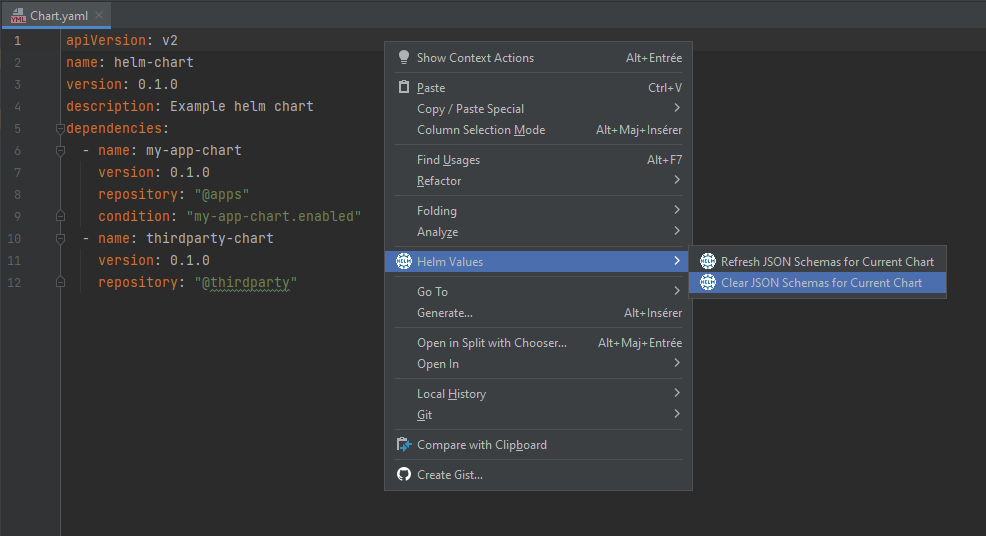
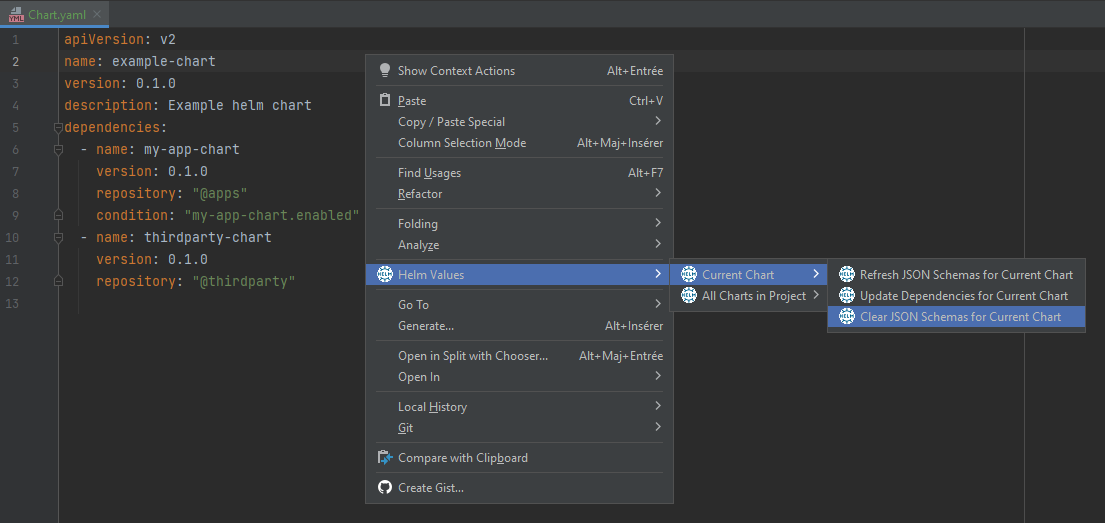
0.8.0

diff --git a/helm-values-shared/src/main/kotlin/io/github/fstaudt/helm/JsonSchemaConstants.kt b/helm-values-shared/src/main/kotlin/io/github/fstaudt/helm/JsonSchemaConstants.kt
@@ -2,7 +2,7 @@ package io.github.fstaudt.helm
 
 const val SCHEMA_VERSION = "https://json-schema.org/draft/2020-12/schema"
 
-const val GENERATOR_LABEL = "helm-values 0.7.1"
+const val GENERATOR_LABEL = "helm-values 0.8.0"
 
 const val NEW_LINE = "\n\\n"
 

diff --git a/helm-values-intellij-plugin/README.md b/helm-values-intellij-plugin/README.md
@@ -5,19 +5,14 @@
 [![Downloads](https://img.shields.io/jetbrains/plugin/d/19970.svg)](https://plugins.jetbrains.com/plugin/19970-helm-values-assistant)
 
 <!-- Plugin description -->
-**Generate JSON schemas to help writing values for [Helm charts](https://helm.sh/).**
+**Ease configuration of values for [Helm charts](https://helm.sh/) in your IDE**
 
-The plugin provides several actions to generate [JSON schemas](https://json-schema.org/) for a Helm chart.\
-These schemas can then be used to document, validate and auto-complete Helm values in your IDE.
+The plugin provides several actions to generate [JSON schemas](https://json-schema.org/) for values of Helm charts.\
+These schemas can then be used in your IDE to document, validate and auto-complete Helm values.
 
-Since Helm v3, Helm charts can package a [JSON schema](https://helm.sh/docs/topics/charts/#schema-files)
-named `values.schema.json` to validate values when Helm chart is installed.\
-The plugin can extract packaged JSON schemas from chart dependencies.
-
-It can also be configured to download JSON schemas of dependencies from external JSON schema repositories.
-
-Plugin provides actions to aggregate extracted and downloaded JSON schemas into a single JSON schema
-that can be used to provide validation, auto-completion and documentation on values.yaml in your IDE.
+Plugin also allows to update Helm dependencies for Helm charts directly from your IDE.\
+_This requires [installation of Helm](https://helm.sh/docs/intro/install/) on your local workstation
+and [configuration of Helm repositories](https://helm.sh/docs/helm/helm_repo/)._
 
 More information: [Helm values documentation](https://github.com/fstaudt/helm-values#readme)
 <!-- Plugin description end -->
@@ -28,7 +23,7 @@ More information: [Helm values documentation](https://github.com/fstaudt/helm-va
 
 Action *Refresh JSON schema for current chart* is available from `Chart.yaml` or `values.yaml`.
 
-![settings](screenshots/action-refresh.png "Refresh JON schemas for current chart")
+![action_refresh_current](screenshots/action-refresh.png "Refresh JON schemas for current chart")
 
 Action will trigger the following processing:
 
@@ -40,18 +35,19 @@ Action will trigger the following processing:
   *A fallback schema is generated if package of chart dependency is missing or invalid.*\
   *The description of the fallback schema provides more information on the extract issue.*
 - extract file `values.schema.json` from chart dependencies (if available)\
-  *Action only attempts to extract file `values.schema.json` from archive of each dependency*
-  *if a repository mapping is **not** defined for the Helm repository of the dependency.*\
-  *Check dedicated section to [configure JSON schema repositories](#configure-json-schema-repositories).*\
-  *A fallback schema is generated if JSON schema can't be downloaded from the external repository*
-  *(schema not found, network failure ...).*\
+  *A fallback schema is generated if JSON schema can't be extracted from dependency archive*
+  *(archive not found, corrupted archive ...).*\
   *The description of the fallback schema provides more information on the download issue.*
-- generate JSON schema `aggregated-values.schema.json` in `.idea/json-schemas/<chart name>/`
+- generate aggregated JSON schema `aggregated-values.schema.json` in `.idea/json-schemas/<chart name>/`\
+  *Action only aggregates extracted JSON schemas for each dependency*
+  *if a repository mapping is **not** defined for the Helm repository of the dependency.*\
+  *Check dedicated section to [configure JSON schema repositories](#configure-json-schema-repositories).*
 
 The JSON schema `aggregated-values.schema.json` is used by default to validate file `values.yaml`
 in the same folder as `Chart.yaml`.\
-Additional JSON schema mappings can be configured in IntelliJ settings if required 
-(e.g. for other values files applied after packaging).
+Additional JSON schema mappings can be configured 
+in [IntelliJ settings](https://www.jetbrains.com/help/idea/json.html#ws_json_schema_add_custom)
+if required (e.g. for other values files applied after packaging).
 
 Optional file `aggregated-values.schema.patch.json` can be created in the base folder of the chart
 (same folder as Chart.yaml) to [patch aggregated JSON schema](https://jsonpatch.com/).\
@@ -62,30 +58,55 @@ on [patch for generated JSON schemas](../README.md#patch-for-generated-json-sche
 
 Action *Clear JSON schema for current chart* is available from `Chart.yaml` or `values.yaml`.
 
-![settings](screenshots/action-clear.png "Clear JON schemas for current chart")
+![action_clear_current](screenshots/action-clear.png "Clear JON schemas for current chart")
 
 Action will trigger the following processing:
 
-- clear previously extracted JSON schemas for the current chart
 - clear previously downloaded JSON schemas for the current chart
+- clear previously extracted JSON schemas for the current chart
 - clear generated JSON schema for the current chart (`aggregated-values.schema.json`)
+
+### Update dependencies for current chart
+
+Action *Update dependencies for current chart* is available from `Chart.yaml` or `values.yaml`.
+
+![action_update_dependencies_current](screenshots/action-update-dependencies.png "Update dependencies for current chart")
+
+Action will trigger the following processing:
+- update Helm repositories (`helm repo update`)
+- update dependencies for the current chart (`helm dependency update --skip-refresh`)
+
+_Action requires [installation of Helm](https://helm.sh/docs/intro/install/) on local workstation 
+and [configuration of Helm repositories](https://helm.sh/docs/helm/helm_repo/)._
 
 ### Refresh JSON schemas for all charts in project
 
-Action *Refresh JSON schemas for all charts in project* is available from actions search.
+Action *Refresh JSON schemas for all charts in project* is available from actions search and from "All charts in project" menu.
 
-![settings](screenshots/action-refresh-all.png "Refresh JON schemas for all charts in project")
+![action_refresh_all](screenshots/action-refresh-all.png "Refresh JON schemas for all charts in project")
 
 It will trigger the refresh of JSON schemas for each chart in the project
 (i.e. for each file named `Chart.yaml` in the project).
 
 ### Clear JSON schemas for all charts in project
 
-Action *Clear JSON schema for all charts in project* is available from actions search.
+Action *Clear JSON schema for all charts in project* is available from actions search and from "All charts in project" menu.
 
-![settings](screenshots/action-clear-all.png "Clear JON schemas for all charts in project")
+![action_clear_all](screenshots/action-clear-all.png "Clear JON schemas for all charts in project")
 
 It will clear JSON schemas for each chart in the project (i.e. for each file named `Chart.yaml` in the project).
+
+### Update dependencies for all charts in project
+
+Action *Update dependencies for all charts in project* is available from actions search and from "All charts in project" menu.
+
+![action_update_dependencies_all](screenshots/action-update-dependencies-all.png "Update dependencies for all charts in project")
+
+It will trigger the update of Helm dependencies for each chart in the project (i.e. for each file named `Chart.yaml` in the project).\
+Update of Helm repositories is however only executed once for all charts in project.
+
+_Action requires [installation of Helm](https://helm.sh/docs/intro/install/) on local workstation
+and [configuration of Helm repositories](https://helm.sh/docs/helm/helm_repo/)._
 
 ## Configure JSON schema repositories
 

diff --git a/README.md b/README.md
@@ -10,29 +10,23 @@
 **Gradle**\
 ![Gradle Plugin Portal](https://img.shields.io/gradle-plugin-portal/v/io.github.fstaudt.helm-values)
 
-**Generate JSON schemas to help writing values for [Helm charts](https://helm.sh/).**
+**Ease configuration of values for [Helm charts](https://helm.sh/) in your IDE**
 
-The project provides several plugins to generate [JSON schemas](https://json-schema.org/) for a Helm chart.\
+The project provides several plugins to generate [JSON schemas](https://json-schema.org/) for values of Helm charts.\
 These schemas can then be used to document, validate and auto-complete Helm values in your IDE:
 
 - [IntelliJ plugin](helm-values-intellij-plugin/README.md)
 - [Gradle plugin](helm-values-gradle-plugin/README.md)
 
-Since Helm v3, Helm charts can package a [JSON schema](https://helm.sh/docs/topics/charts/#schema-files)
-named `values.schema.json` to validate values when Helm chart is installed.\
-The plugins can extract the JSON schemas from all chart dependencies.
-
-The plugins can also be configured to download JSON schemas from external JSON schema repositories.
+The plugins can extract the [JSON schemas](https://helm.sh/docs/topics/charts/#schema-files) named `values.schema.json` from all chart dependencies.\
+They can also be configured to download JSON schemas from external JSON schema repositories.
 
 The aggregated JSON schema can then be used to provide auto-completion and documentation on values.yaml in your IDE.
 
-Finally, the gradle plugin can also be used to generate and publish JSON schemas to external JSON schema repositories.
+Finally, the Gradle plugin can also be used to generate and publish JSON schemas to external JSON schema repositories.
 
 All business logic of the plugins is maintained in a [java shared library](helm-values-shared/README.md) published on maven Central repository.\
 This java library can be used to provide JSON schema generation for other IDE or build tools (e.g. Maven plugin).
-
-*The project only supports Helm3: Helm dependencies are only retrieved in `Chart.yaml`.*\
-*File `dependencies.yaml` previously used in Helm2 to define dependencies is not supported*.
 
 ## JSON schemas
 
@@ -47,7 +41,7 @@ by [Gradle task aggregateJsonSchema](helm-values-gradle-plugin/README.md#aggrega
 or [aggregation actions in IntelliJ plugin](helm-values-intellij-plugin/README.md#refresh-jon-schemas-for-current-chart)
 .
 
-It is intended to provide auto-completion, documentation and validation in your IDE on values.yaml of the current chart.
+It is intended to provide documentation, validation and auto-completion in your IDE on values.yaml of the current chart.
 
 It aggregates:
 
@@ -65,7 +59,7 @@ A fallback schema is generated if JSON schema can't be downloaded from the exter
 network failure ...).
 The description of the fallback schema provides more information on the download issue.
 
-It is also intended to provide auto-completion, documentation and validation in your IDE on extra values applied on a
+It is also intended to provide documentation, validation and auto-completion on extra values applied on a
 packaged chart.\
 e.g.:
 ```shell
@@ -88,8 +82,7 @@ by [Gradle task generateJsonSchemas](helm-values-gradle-plugin/README.md#generat
 
 It was intended to be published in a JSON schema repository, so that it can be referenced in schemas of other charts.
 
-*Since [#11 (0.4.0)](https://github.com/fstaudt/helm-values/issues/11), schema `global-values.schema.json`
-is no more generated and published to external repositories.*\
+*Since [#11 (0.4.0)](https://github.com/fstaudt/helm-values/issues/11), schema `global-values.schema.json` is no more generated and published to external repositories.*\
 *It is however still used in generation of schema `aggregated-values.schema.json` for retro-compatibility with schemas
 generated with previous versions.*\
 *The support of global values schema files in aggregation is however deprecated and will be removed in `1.0.0`.*

diff --git a/CHANGELOG.md b/CHANGELOG.md
@@ -1,3 +1,27 @@
+## 0.8.0 - Nov 11, 2023
+- :sparkles: discard required properties when already defined in dependency values
+  ([#40](https://github.com/fstaudt/helm-values/issues/40))
+- :sparkles: (intellij) actions to trigger helm dependency update
+  ([#53](https://github.com/fstaudt/helm-values/issues/53))
+- :sparkles: (intellij) actions in error notifications to install or configure Helm
+- :sparkles: (intellij) support IJ 2023.3
+- :bug: avoid NullPointerException in JSON schema providers when virtual file parent is null
+  ([#114](https://github.com/fstaudt/helm-values/issues/114))
+- :bug: discard generation of extra-values.schema.json
+  ([#130](https://github.com/fstaudt/helm-values/issues/130))
+- :bug: disable additionalProperties at top level of aggregated chart
+  ([#131](https://github.com/fstaudt/helm-values/issues/131))
+- :bug: (intellij) UnsupportedOperationException when values.yaml is part of a virtual file system
+  ([#132](https://github.com/fstaudt/helm-values/issues/132))
+- :bug: JSON schema extractor should take aliases into account
+  ([#133](https://github.com/fstaudt/helm-values/issues/133))
+
+**BREAKING CHANGES**:
+- Since [#130](https://github.com/fstaudt/helm-values/issues/130),
+  JSON schema validation is no more applied by default on files `*-values.yaml` in IntelliJ IDEA.\
+  Validation of non-standard Helm values files with generated JSON schema can be configured
+  in [IntelliJ settings](https://www.jetbrains.com/help/idea/json.html#ws_json_schema_add_custom).
+
 ## 0.7.1 - Jul 14, 2023
 - :sparkles: (intellij) support for IntelliJ IDEA 2023.2
 - :zap: (intellij) avoid full project scanning in JSON schema provider factory

diff --git a/helm-values-intellij-plugin/CHANGELOG.md b/helm-values-intellij-plugin/CHANGELOG.md
@@ -1,5 +1,33 @@
 # Changelog
 
+## 0.8.0 - Nov 11, 2023
+
+### ✨ New
+- discard required properties when already defined in dependency values
+  ([#40](https://github.com/fstaudt/helm-values/issues/40))
+- actions to trigger helm dependency update
+  ([#53](https://github.com/fstaudt/helm-values/issues/53))
+- actions in error notifications to install or configure Helm
+- support for IntelliJ IDEA 2023.3
+
+### 🐛 Fixed
+- avoid NullPointerException in JSON schema providers when virtual file parent is null
+  ([#114](https://github.com/fstaudt/helm-values/issues/114))
+- discard generation of extra-values.schema.json
+  ([#130](https://github.com/fstaudt/helm-values/issues/130))
+- disable additionalProperties at top level of aggregated chart
+  ([#131](https://github.com/fstaudt/helm-values/issues/131))
+- UnsupportedOperation exception when values.yaml is part of a virtual file system
+  ([#132](https://github.com/fstaudt/helm-values/issues/132))
+- JSON schema extractor should take aliases into account
+  ([#133](https://github.com/fstaudt/helm-values/issues/133))
+
+### 🔥 Removed
+- Since [#130](https://github.com/fstaudt/helm-values/issues/130),
+  JSON schema validation is no more applied by default on files `*-values.yaml` in IntelliJ IDEA.\
+  Validation of non-standard Helm values files with generated JSON schema can be configured
+  in [IntelliJ settings](https://www.jetbrains.com/help/idea/json.html#ws_json_schema_add_custom).
+
 ## 0.7.1 - Jul 14, 2023
 
 ### ✨ New
